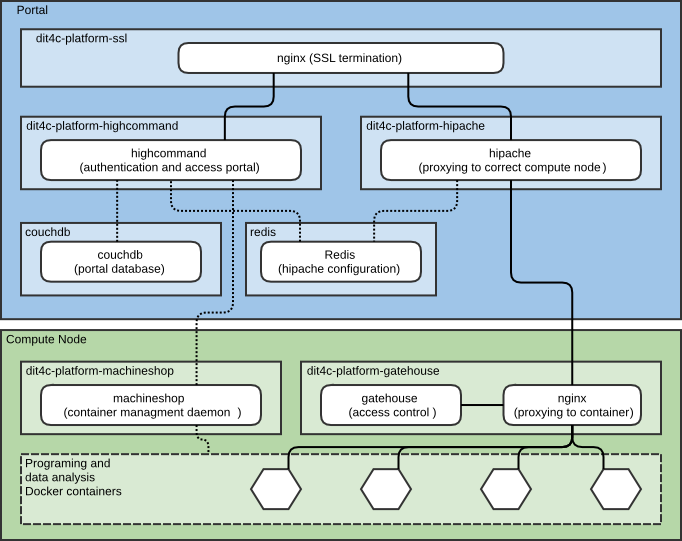
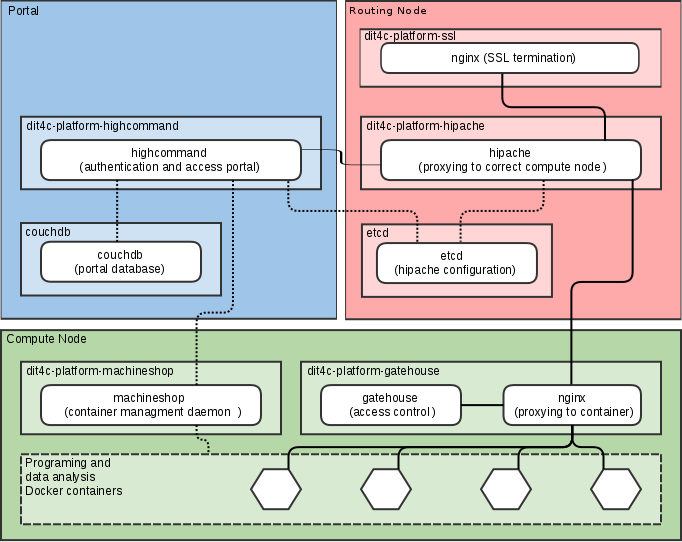
Updating README

diff --git a/README.md b/README.md
@@ -52,13 +52,24 @@ To install DIT4C, you will need:
    * a [RapidAAF account][rapidaaf] account or
    * a [GitHub][github-auth] application.
 
-DIT4C has two Docker containers used to bootstrap new environments:
+DIT4C has three Docker containers used to bootstrap new environments:
+ * [dit4c-deploy-routing][dit4c-deploy-routing]
  * [dit4c-deploy-portal][dit4c-deploy-portal]
  * [dit4c-deploy-compute][dit4c-deploy-compute]
 
-To deploy a portal:
- * Put your certificate and private key (`server.crt` & `server.key`) in `/opt/ssl`.
- * Put your DIT4C portal configuration (`dit4c-highcommand.conf`) in `/opt/config`.
+To deploy a routing node, put your certificate and private key (`server.crt` & `server.key`) in `/opt/ssl`.
+
+Once those files are in place, to deploy routing infrastructure, run:
+
+```shell
+# Change DIT4C_DOMAIN to your domain name
+docker run --name dit4c_deploy_routing --rm \
+           -e DIT4C_DOMAIN=my.domain.example.test \
+           -v /var/run/docker.sock:/var/run/docker.sock \
+           dit4c/dit4c-deploy-routing
+```
+
+To deploy a portal, put your DIT4C portal configuration (`dit4c-highcommand.conf`) in `/opt/config`.
 
 ```
 application.baseUrl: "https://<your_domain_here>/"
@@ -80,17 +91,19 @@ Once those files are in place, to deploy a portal, run:
 ```shell
 # Change DIT4C_DOMAIN to your domain name
 docker run --name dit4c_deploy_portal --rm \
-           -e DIT4C_DOMAIN=my.domain.example.test
+           -e DIT4C_DOMAIN=my.domain.example.test \
            -v /var/run/docker.sock:/var/run/docker.sock \
            dit4c/dit4c-deploy-portal
 ```
+
+You will need to populate the Hipache record for your portal (`frontend:my.domain.example.net`). You can use `etcdctl` to do this manually, and [dit4c-cluster-manager][dit4c-cluster-manager] exists for maintaining this automatically.
 
 To deploy a compute node (preferably on another host), run:
 
 ```shell
 # Change PORTAL_URL to reflect your domain name
 docker run --name dit4c_deploy_compute --rm \
-           -e PORTAL_URL=https://my.domain.example.test
+           -e PORTAL_URL=https://my.domain.example.test \
            -v /var/run/docker.sock:/var/run/docker.sock \
            dit4c/dit4c-deploy-compute
 ```
@@ -110,5 +123,7 @@ docker run --name dit4c_deploy_compute --rm \
 [dit4c-container-ijulia]: https://registry.hub.docker.com/u/dit4c/dit4c-container-ijulia/
 [dit4c-container-x11]: https://registry.hub.docker.com/u/dit4c/dit4c-container-x11/
 [dit4c-container-octave]: https://registry.hub.docker.com/u/dit4c/dit4c-container-octave/
+[dit4c-deploy-routing]: https://registry.hub.docker.com/u/dit4c/dit4c-deploy-routing/
 [dit4c-deploy-portal]: https://registry.hub.docker.com/u/dit4c/dit4c-deploy-portal/
 [dit4c-deploy-compute]: https://registry.hub.docker.com/u/dit4c/dit4c-deploy-compute/
+[dit4c-cluster-manager]: https://registry.hub.docker.com/u/dit4c/dit4c-cluster-manager/
